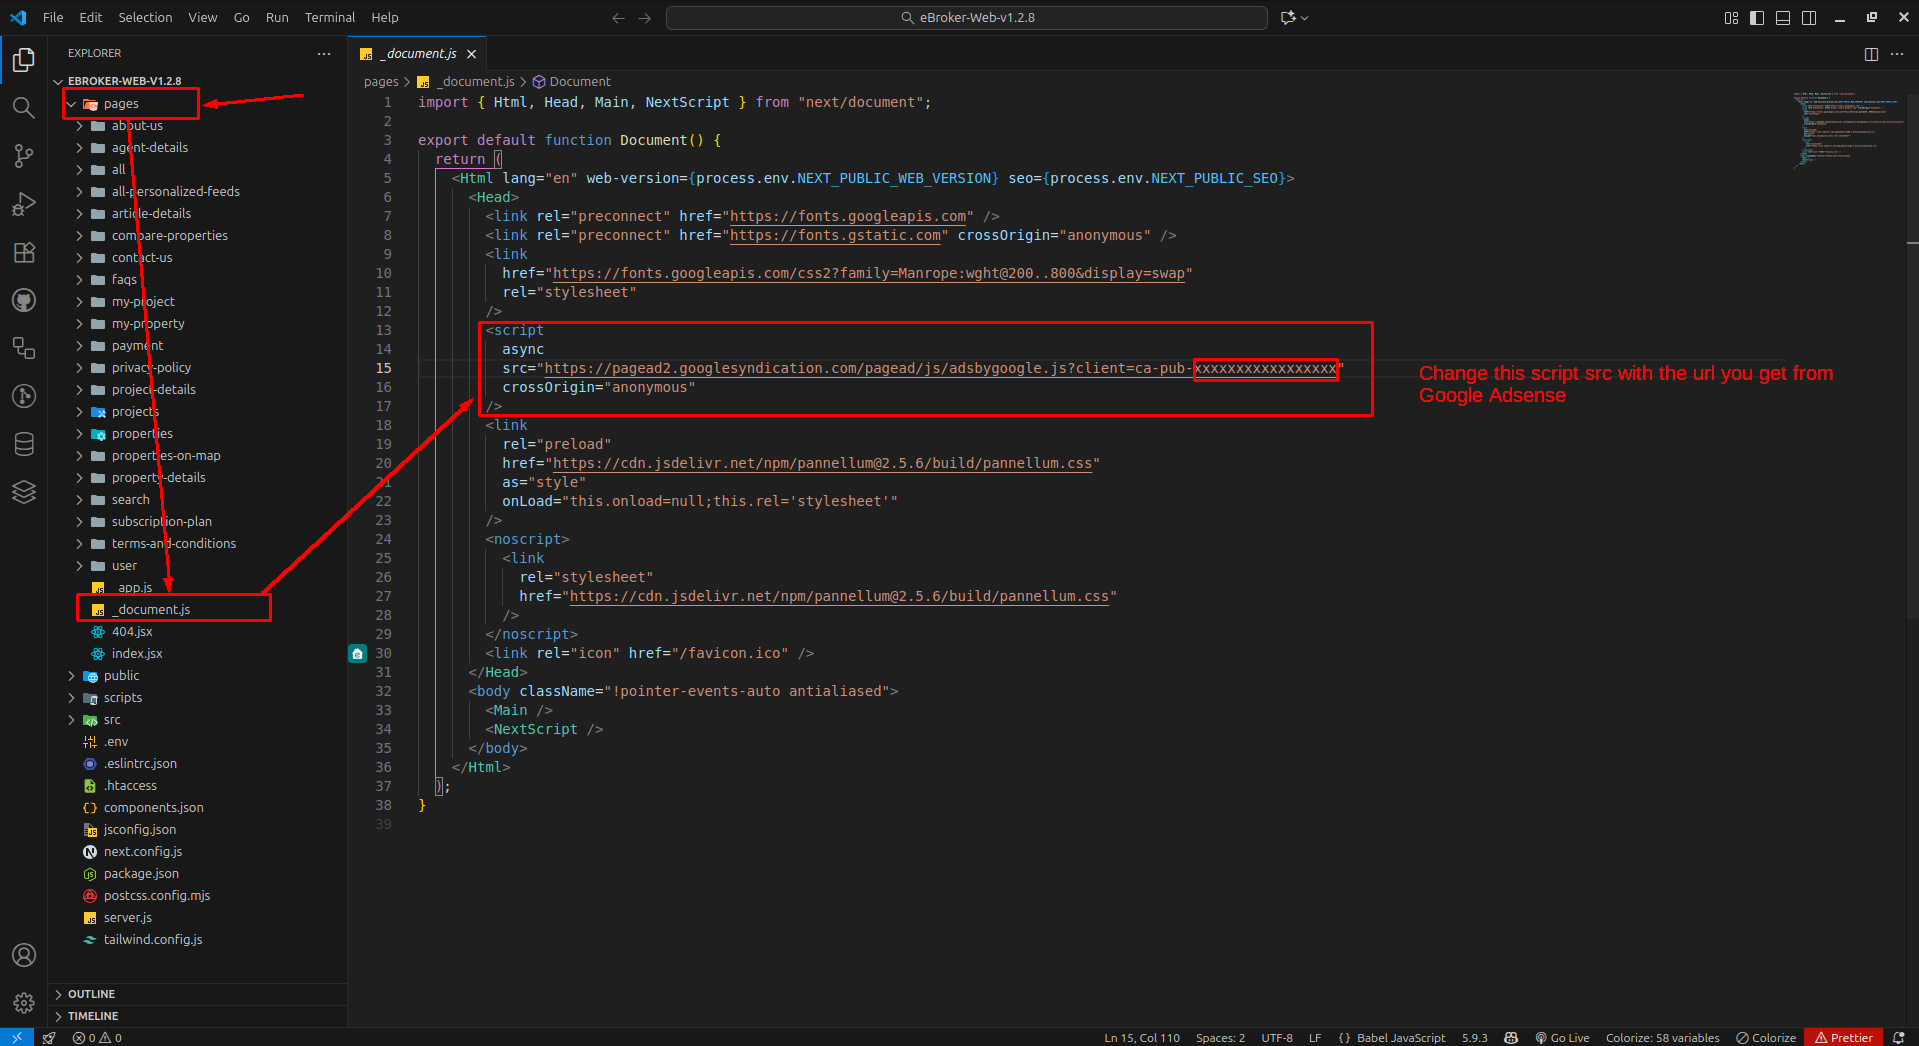
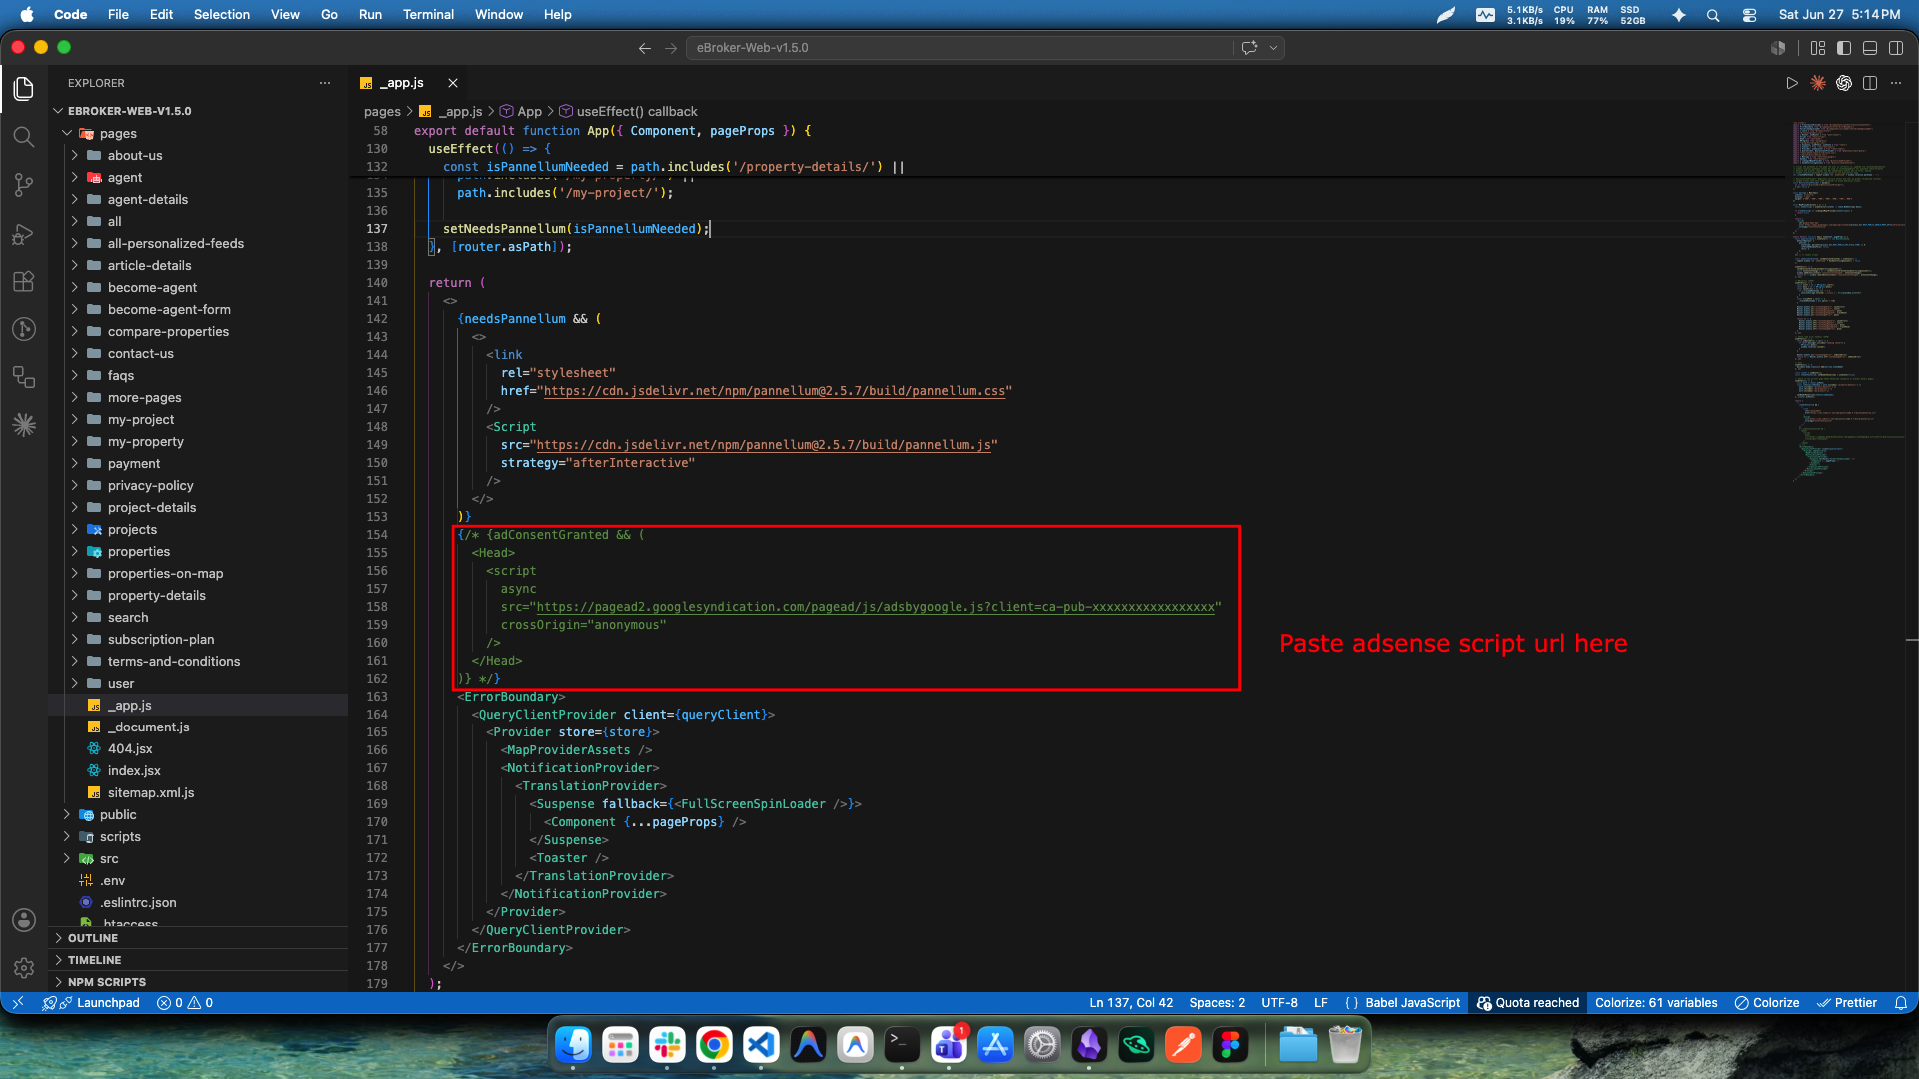
fix: change google adsense link and its png add: vps standalone deployment guide for website fix: updated sitemap setup for website

Changed region(s): [[0.0, 0.0, 1.0, 1.0], [0.6456, 0.5813, 0.8609, 0.6119]]

diff --git a/sidebars.js b/sidebars.js
@@ -100,6 +100,7 @@ export default {
         "web/deployment-without-seo",
         "web/seo-for-web",
         "web/nextjs-deployment",
+        "web/vps-standalone-deployment",
         "web/htaccess-config",
       ],
     },

diff --git a/docs/web/vps-standalone-deployment.md b/docs/web/vps-standalone-deployment.md
@@ -1,0 +1,133 @@
+---
+sidebar_position: 23
+---
+
+# VPS Standalone Deployment
+
+We have implemented a robust, automated deployment workflow designed for Custom Server (VPS) environments. This system compiles the application in **Next.js Standalone build mode**, which produces a lightweight, production-ready Node.js server (`server.js`) that minimizes memory usage and removes the need for the entire `node_modules` directory in production. It also generates optimal Apache configurations for reverse proxying and static asset caching.
+
+---
+
+## Automated Deployment (Recommended)
+
+To deploy the application on your VPS using the automated script:
+
+1. **SSH into the server** and navigate to your project directory.
+2. **Run the deployment script**:
+   ```bash
+   npm run deploy:vps
+   ```
+   *(Alternatively, run: `bash deploy-vps.sh`)*
+
+3. **Follow the interactive prompts**:
+   * Enter your desired **PORT** (default: `8001`).
+   * The script will automatically detect conflicting PM2 processes and prompt you to restart or replace them.
+
+### Outcome
+Upon successful execution:
+* The app will run under **PM2** (named dynamically based on your app name, e.g. `eBroker-Website`).
+* It will serve locally on the specified port.
+* **Apache** will proxy public-facing traffic and handle high-speed caching for static files.
+
+---
+
+## Manual Deployment
+
+If you prefer to deploy manually or need to troubleshoot, follow these steps to replicate the automated process:
+
+### 1. Configuration & Dependencies
+Ensure your `.env` file is correctly configured for your production environment.
+
+```bash
+# Install dependencies
+npm install
+
+# (Optional) Clean old build artifacts
+rm -rf .next out dist
+```
+
+### 2. Generate Sitemap & Assets
+Run the helper scripts to generate the sitemap:
+
+```bash
+# Generate Sitemap
+node scripts/setup-sitemap.js
+```
+
+### 3. Build Application in Standalone Mode
+Build the application by forcing Standalone output:
+
+```bash
+# Build with standalone output enabled
+export NODE_ENV="production"
+export NEXT_OUTPUT_STANDALONE="true"
+npm run build
+```
+
+### 4. Copy Standalone Assets
+Next.js standalone build generates the server but does not copy static folder assets (`public/` and `.next/static/`) into the standalone directory. Run the helper script to copy these assets:
+
+```bash
+node scripts/setup-standalone.js
+```
+
+### 5. Generate Apache Configuration
+Use the included generator to automatically write the correct `.htaccess` file for your port.
+
+```bash
+# Replace 8001 with your chosen port
+node scripts/generate-standalone-htaccess.js 8001
+```
+
+### 6. Start or Reload with PM2
+Start or reload the application using PM2 to manage the production process:
+
+```bash
+# Start or restart using PM2 ecosystem configuration
+pm2 start ecosystem.config.cjs
+# or restart if already running
+pm2 restart ecosystem.config.cjs --update-env
+```
+
+To persist the process list so that it auto-starts on system reboots:
+```bash
+pm2 save
+```
+
+### 7. Finalize Apache Setup
+Reload Apache to apply the new `.htaccess` rewrite and proxy rules (ensure `mod_rewrite`, `mod_headers`, and `mod_proxy` are enabled on your server):
+
+```bash
+sudo systemctl reload apache2
+# or on older/different systems:
+sudo service apache2 reload
+```
+
+---
+
+## Deployment System Details
+
+### Key Features
+* **Standalone Build Mode**: Triggered by setting `NEXT_OUTPUT_STANDALONE="true"`. It forces Next.js to trace all required modules and dependencies, outputting a self-contained folder at `.next/standalone/` that is independent of root node_modules.
+* **Automated Script (`deploy-vps.sh`)**:
+  * **Safety Checks**: Verifies required command availability (`npm`, `node`, `pm2`) and detects active ports or conflicting PM2 processes.
+  * **Clean Build**: Cleans up previous artifacts before compiling.
+  * **Asset Preparation**: Automatically runs setup scripts and compiles code.
+  * **PM2 Setup**: Uses `ecosystem.config.cjs` to manage environment configurations, logging, and memory limit restarts.
+* **Dynamic .htaccess Generation (`scripts/generate-standalone-htaccess.js`)**:
+  * Configures reverse-proxy rules to route HTTP requests directly to the standalone Node.js server.
+  * Configures direct Apache filesystem serving for static assets (`_next/static` and files inside `public/`) to reduce load on the Node.js process and ensure maximum delivery speed.
+
+### New Scripts & Files
+
+| Script / File | Description |
+| :--- | :--- |
+| `deploy-vps.sh` | Main deployment entry point script. Runs on the VPS, prompts for a `PORT` and manages the process lifecycle. |
+| `scripts/setup-standalone.js` | Copies the `public` and `.next/static` directories into the `.next/standalone` folder so they can be packaged and served properly. |
+| `scripts/generate-standalone-htaccess.js` | Programmatically generates the `.htaccess` file using the active port. |
+| `next.config.js` | Conditional logic to force `output: 'standalone'` when `NEXT_OUTPUT_STANDALONE="true"` is set. |
+| `ecosystem.config.cjs` | PM2 configuration file declaring script location, port environment variables, logs, and process management rules. |
+
+:::warning
+Do not edit `.htaccess` directly. It is auto-generated by `scripts/generate-standalone-htaccess.js` during deployment, and any manual changes will be overwritten. If you need custom rewrite rules, update `scripts/generate-standalone-htaccess.js`.
+:::

diff --git a/docs/web/sitemap-setup.md b/docs/web/sitemap-setup.md
@@ -13,27 +13,57 @@ A sitemap helps search engines discover and index all the pages on your website 
 
 ![Add Web URL](/images/web/addWebUrl.png)
 
+## How the Sitemap Works
+
+The sitemap setup is automated via `scripts/setup-sitemap.js` and behaves differently depending on the `NEXT_PUBLIC_SEO` environment variable in your `.env` file.
+
+### 1. Dynamic / SSR Mode (Recommended for VPS)
+If `NEXT_PUBLIC_SEO="true"` is set in your environment:
+* **Behavior**: The sitemap is dynamically generated at runtime.
+* **Mechanism**: During the build process, the setup script deletes any static `public/sitemap.xml` file (to avoid routing conflicts) and auto-restores/writes the dynamic route page `pages/sitemap.xml.js`.
+* **Outcome**: Search engines and visitors fetching `/sitemap.xml` will receive real-time database updates of properties and projects served via Server-Side Rendering (`getServerSideProps`). It also embeds visual stylesheet branding dynamically.
+
+### 2. Static Mode (Recommended for Static Builds)
+If `NEXT_PUBLIC_SEO="false"` or not set in your environment:
+* **Behavior**: The sitemap is generated as a static XML file at build time.
+* **Mechanism**: The setup script deletes `pages/sitemap.xml.js` (preventing export errors) and runs `scripts/sitemap-generator.js` to output a physical `public/sitemap.xml` file containing all statically compiled pages.
+* **Outcome**: The sitemap is served as a plain static file directly from the filesystem.
+
+---
+
 ## Generating the Sitemap
 
-Sitemap will generate automatically when you're making the build for deployment i.e. when you run command `npm run export` with `NEXT_PUBLIC_SEO=false` or `npm run build` with `NEXT_PUBLIC_SEO=false`
-
-For manual sitemap generation of the sitemap for your website:
-
-1. Run the following command:
-
+### Automated Generation (Build Time)
+The sitemap configuration is integrated into the build process. When you run `npm run build` or `npm run export`, the setup script executes automatically:
 ```bash
-node scripts/sitemap-generator.js
+# Defined in package.json build/export scripts
+node scripts/setup-sitemap.js && next build
 ```
 
-2. This will automatically generate a sitemap.xml file in the `public` directory
+### Manual Triggering
+If you want to manually configure or regenerate the sitemap:
+
+1. **Trigger the Sitemap Setup Utility**:
+   ```bash
+   node scripts/setup-sitemap.js
+   ```
+   This reads your `.env` settings to decide whether to set up the dynamic SSR page or write a static sitemap file.
+
+2. **Force-Generate a Static File**:
+   If you want to bypass the environment check and immediately output a physical static XML file to `public/sitemap.xml`, run the generator script directly:
+   ```bash
+   node scripts/sitemap-generator.js
+   ```
+
+---
 
 ## Customizing the Sitemap
 
 If you want to customize the sitemap manually:
 
-1. Navigate to the `public` directory
-2. Open the `sitemap.xml` file
-3. Modify the file according to your needs
+1. Navigate to the `public` directory.
+2. Open the `sitemap.xml` file (only applicable in static mode, as dynamic mode is managed by the database and Next.js).
+3. Modify the file according to your needs.
 
 ![Sitemap](/images/web/sitemap.png)
 

diff --git a/docs/web/google-adsense.md b/docs/web/google-adsense.md
@@ -24,7 +24,7 @@ Integrating Google AdSense with your eBroker web application allows you to monet
 ## Adding the AdSense Script to Your Website
 
 1. Navigate to your project's source files
-2. Open the `pages` → `_document.js` file
+2. Open the `pages` → `_app.js` file, select line no 154-162 and press CTRL + / to uncomment the line and paste your adsense script link there
 3. Add the AdSense script code to the appropriate section
 
 ![AdSense Script](/images/web/adsense-script.png)
@@ -63,7 +63,7 @@ Once your site is approved:
 
 For effective AdSense integration:
 
--   Don't overload your pages with too many ads
--   Place ads in positions that generate engagement without disrupting user experience
--   Follow all Google AdSense policies to avoid account suspension
--   Regularly check your AdSense dashboard for performance metrics and optimization tips
+- Don't overload your pages with too many ads
+- Place ads in positions that generate engagement without disrupting user experience
+- Follow all Google AdSense policies to avoid account suspension
+- Regularly check your AdSense dashboard for performance metrics and optimization tips

diff --git a/docs/web/htaccess-config.md b/docs/web/htaccess-config.md
@@ -1,5 +1,5 @@
 ---
-sidebar_position: 23
+sidebar_position: 24
 ---
 
 # .htaccess Configuration
